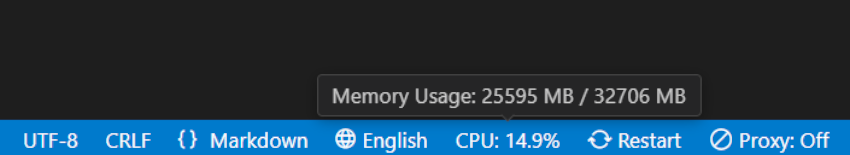
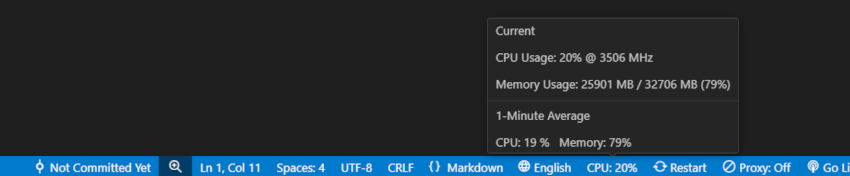
feat: improve system monitoring efficiency and update documentation
- Adjusted CPU and memory update interval from 1 second to 5 seconds for better efficiency
- Modified moving average calculation to use 12 data points (5-second intervals over 1 minute)
- Updated tooltip formatting for better readability using Markdown
- Improved CPU usage calculation to handle edge cases where total CPU time difference is zero
- Adjusted memory usage percentage calculation to avoid division by zero
- Added logic to dynamically adjust update interval based on VS Code window focus state
- Updated README to reflect the new update interval and efficiency improvements
- Added a system monitor screenshot to the README
- Updated package.json with relevant keywords for better discoverability
- Replaced real-time terminology with regular updates for clarity

diff --git a/src/extension.ts b/src/extension.ts
@@ -13,38 +13,44 @@ interface SystemMetrics {
 }
 
 let previousCPUTime: CPUTime | null = null;
-// 過去1分間のメトリクスを保持する配列
+// 過去1分間のメトリクスを保持する配列（5秒間隔で12データポイント）
 const metricsHistory: SystemMetrics[] = [];
-const HISTORY_LENGTH = 60; // 1分間（60秒）
+const UPDATE_INTERVAL = 5000; // 基本は5秒ごと
+const HISTORY_LENGTH = 12; // 1分間（12データポイント）
+
+// VS Code ウィンドウがアクティブなときだけ頻繁に更新するための処理
+function getEffectiveInterval(): number {
+    return vscode.window.state.focused ? UPDATE_INTERVAL : UPDATE_INTERVAL * 2;
+}
 
 function getCPUInfo(): { usage: number; speed: number } {
     const cpus = os.cpus();
     let totalIdle = 0;
     let totalTick = 0;
 
-    // 全CPUコアの時間を合計
     cpus.forEach(cpu => {
         const times = cpu.times;
         totalIdle += times.idle;
         totalTick += times.user + times.nice + times.sys + times.idle + times.irq;
     });
 
-    // 初回実行時
+    // 初回実行時は前回値がないため、計測できない
     if (previousCPUTime === null) {
         previousCPUTime = { idle: totalIdle, total: totalTick };
         return { usage: 0, speed: cpus[0].speed };
     }
 
-    // CPU使用率を計算
     const idleDiff = totalIdle - previousCPUTime.idle;
     const totalDiff = totalTick - previousCPUTime.total;
-    const cpuUsage = 100 - (idleDiff / totalDiff) * 100;
+    // totalDiff が0の場合を考慮
+    const cpuUsage = totalDiff > 0 ? 100 - (idleDiff / totalDiff) * 100 : 0;
 
     // 現在の値を保存
     previousCPUTime = { idle: totalIdle, total: totalTick };
 
     return {
-        usage: Math.round(cpuUsage * 10) / 10, // 小数点1桁まで
+        // 小数点以下は不要なため Math.round で整数にする
+        usage: Math.round(cpuUsage),
         speed: cpus[0].speed
     };
 }
@@ -53,26 +59,22 @@ function getMemoryUsage(): { used: number; total: number; usagePercent: number }
     const totalMemory = Math.round(os.totalmem() / (1024 * 1024)); // MB単位
     const freeMemory = Math.round(os.freemem() / (1024 * 1024));
     const usedMemory = totalMemory - freeMemory;
-    const usagePercent = (usedMemory / totalMemory) * 100;
+    const usagePercent = totalMemory > 0 ? (usedMemory / totalMemory) * 100 : 0;
     
     return {
         used: usedMemory,
         total: totalMemory,
-        usagePercent: Math.round(usagePercent * 10) / 10
+        usagePercent: Math.round(usagePercent)
     };
 }
 
 function updateMetricsHistory(cpuUsage: number, memoryUsage: number) {
-    const now = Date.now();
     metricsHistory.push({
-        timestamp: now,
+        timestamp: Date.now(),
         cpuUsage,
         memoryUsage
     });
-
-    // 1分以上前のデータを削除
-    const oneMinuteAgo = now - 60000;
-    while (metricsHistory.length > 0 && metricsHistory[0].timestamp < oneMinuteAgo) {
+    if (metricsHistory.length > HISTORY_LENGTH) {
         metricsHistory.shift();
     }
 }
@@ -81,17 +83,22 @@ function getAverageMetrics(): { cpuAvg: number; memoryAvg: number } {
     if (metricsHistory.length === 0) {
         return { cpuAvg: 0, memoryAvg: 0 };
     }
-
-    const sum = metricsHistory.reduce((acc, metric) => ({
-        cpuUsage: acc.cpuUsage + metric.cpuUsage,
-        memoryUsage: acc.memoryUsage + metric.memoryUsage
-    }), { cpuUsage: 0, memoryUsage: 0 });
+    const { cpuUsage, memoryUsage } = metricsHistory.reduce(
+        (acc, val) => ({
+            cpuUsage: acc.cpuUsage + val.cpuUsage,
+            memoryUsage: acc.memoryUsage + val.memoryUsage,
+        }),
+        { cpuUsage: 0, memoryUsage: 0 }
+    );
 
     return {
-        cpuAvg: Math.round((sum.cpuUsage / metricsHistory.length) * 10) / 10,
-        memoryAvg: Math.round((sum.memoryUsage / metricsHistory.length) * 10) / 10
+        cpuAvg: Math.round(cpuUsage / metricsHistory.length),
+        memoryAvg: Math.round(memoryUsage / metricsHistory.length),
     };
 }
+
+// timerの型をNodeJS.Timeoutにして型エラーを防ぐ
+let timer: NodeJS.Timeout | undefined;
 
 export function activate(context: vscode.ExtensionContext) {
     console.log('otak-monitor is now active!');
@@ -101,37 +108,63 @@ export function activate(context: vscode.ExtensionContext) {
         vscode.StatusBarAlignment.Right,
         100
     );
+    context.subscriptions.push(statusBarItem);
 
-    // 1秒ごとに更新
-    setInterval(() => {
+    // タイマーの再設定処理
+    function startTimer() {
+        // 前回のタイマーがあればクリア
+        if (timer) {
+            clearInterval(timer);
+        }
+        // 有効な更新間隔を算出し、新しいタイマーを開始（型アサーションにより NodeJS.Timeout と明示）
+        timer = setInterval(updateStatus, getEffectiveInterval()) as NodeJS.Timeout;
+    }
+
+    function updateStatus() {
         const cpuInfo = getCPUInfo();
         const memoryInfo = getMemoryUsage();
 
-        // メトリクス履歴を更新
         updateMetricsHistory(cpuInfo.usage, memoryInfo.usagePercent);
-        
-        // 1分間の平均を計算
         const averages = getAverageMetrics();
 
-        // ステータスバーのテキストを更新
-        statusBarItem.text = `CPU: ${cpuInfo.usage}%`;
-        
-        // ツールチップを更新
-        statusBarItem.tooltip = 
-            `Current:\n` +
-            `CPU Usage: ${cpuInfo.usage}% (${cpuInfo.speed} MHz)\n` +
-            `Memory Usage: ${memoryInfo.used} MB / ${memoryInfo.total} MB (${memoryInfo.usagePercent}%)\n\n` +
-            `1-Minute Average:\n` +
-            `CPU: ${averages.cpuAvg}%\n` +
-            `Memory: ${averages.memoryAvg}%`;
-        
-        statusBarItem.show();
-    }, 1000);
+        // CPU使用率は整数値で、常に2桁表示になるようにパディング
+        const cpuDisplay = cpuInfo.usage.toString().padStart(2, '0');
+        statusBarItem.text = `CPU: ${cpuDisplay}%`;
 
-    // 拡張機能が非アクティブになったときのクリーンアップ
-    context.subscriptions.push(statusBarItem);
+        // ツールチップは基本的にプレーンテキストで表示し、必要な部分だけ Markdown 書式を利用する
+        const mdTooltip = new vscode.MarkdownString();
+
+        // プレーンテキスト部分
+        mdTooltip.appendText("Current\n\n");
+        mdTooltip.appendText(`CPU Usage: ${cpuDisplay}% @ ${cpuInfo.speed} MHz\n\n`);
+        mdTooltip.appendText(`Memory Usage: ${memoryInfo.used} MB / ${memoryInfo.total} MB (${memoryInfo.usagePercent}%)\n\n`);
+
+        // Markdown を利用して罫線を挿入
+        mdTooltip.appendMarkdown("---\n\n");
+
+        // 「1-Minute Average」のタイトル行（プレーンテキスト）
+        mdTooltip.appendText("1-Minute Average\n\n");
+
+        // CPU と Memory の平均値を同じ行に、HTML の&nbsp;&nbsp;を間に入れて表示
+        mdTooltip.appendMarkdown(
+        `CPU: ${averages.cpuAvg.toString().padStart(2, '0')} %&nbsp;&nbsp; Memory: ${averages.memoryAvg}%`
+        );
+
+        statusBarItem.tooltip = mdTooltip;
+        statusBarItem.show();
+    }
+
+    // VS Code のウィンドウのフォーカス状態に応じて更新間隔を変更するためのイベントリスナー
+    vscode.window.onDidChangeWindowState(() => {
+        startTimer();
+    }, null, context.subscriptions);
+
+    startTimer();
 }
 
 export function deactivate() {
-    // クリーンアップが必要な場合はここに実装
+    // 必要なクリーンアップ処理
+    if (timer) {
+        clearInterval(timer);
+    }
 }

diff --git a/README.md b/README.md
@@ -1,14 +1,16 @@
 <p align="center">
   <h1 align="center">otak-monitor</h1>
-  <p align="center">A real-time system monitor for VS Code - Track CPU and memory usage with current values and 1-minute averages.</p>
+  <p align="center">A lightweight system monitor for VS Code - Track CPU and memory usage with efficient 5-second updates and 1-minute averages.</p>
 </p>
 
 ---
 
 ## Usage
 
+![System Monitor in Action](images/otak-monitor.png)
+
 1. Find the system monitor in your VS Code status bar
-2. View real-time CPU usage percentage
+2. View CPU usage percentage
 3. Hover to see detailed current and average metrics
 
 ## Features
@@ -17,9 +19,9 @@ otak-monitor is a lightweight VS Code extension that helps you monitor system re
 
 ### Key Features
 
-- **Real-time CPU Monitoring**:
+- **CPU Monitoring**:
   - Status bar display of CPU usage percentage
-  - Updates every second
+  - Updates every 5 seconds
   - Aggregated across all CPU cores
   - Precise to one decimal place
   - Current CPU clock speed (MHz)
@@ -30,7 +32,7 @@ otak-monitor is a lightweight VS Code extension that helps you monitor system re
   - Shows used and total memory in MB
   - Memory usage percentage
   - 1-minute moving average
-  - Real-time updates
+  - Regular updates
 
 - **Visual Integration**:
   - Clean status bar integration
@@ -39,7 +41,7 @@ otak-monitor is a lightweight VS Code extension that helps you monitor system re
   - Detailed hover tooltip showing:
     - Current CPU and memory metrics
     - 1-minute average values
-    - Real-time updates
+    - Regular 5-second updates
 
 ## Requirements
 
@@ -56,7 +58,7 @@ otak-monitor is a lightweight VS Code extension that helps you monitor system re
 The extension shows the following information in your status bar:
 
 ```
-CPU: 45.3%  // Real-time CPU usage
+CPU: 45.3%  // CPU usage
 ```
 
 With a detailed tooltip showing:
@@ -74,8 +76,8 @@ Memory: 48.5%
 
 - CPU usage is calculated by comparing idle and total CPU time differences
 - Memory values are shown in MB and percentage
-- Moving averages are calculated over the last 60 seconds
-- Updates occur every second for real-time monitoring
+- Moving averages are calculated using 12 data points (5-second intervals over 1 minute)
+- Updates occur every 5 seconds for efficient monitoring
 - Minimal performance impact on the system
 
 ## Contributing
